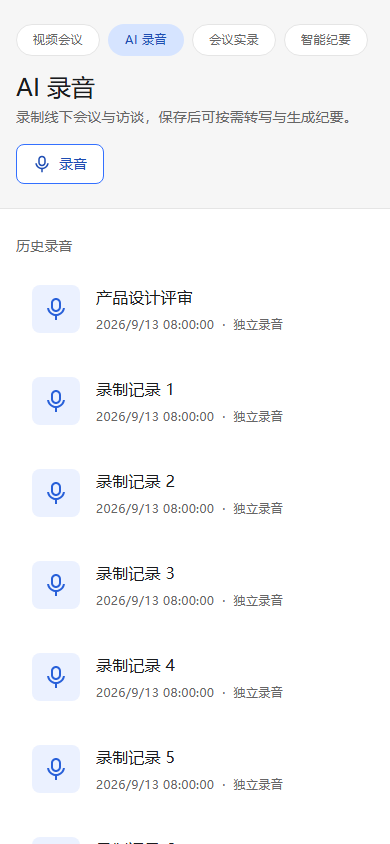
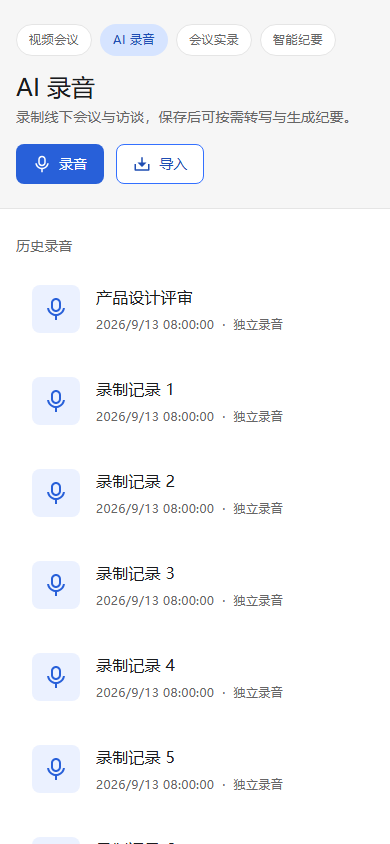
feat(meetings): reorder and restyle the AI recording header actions
按截图改 AI 录音页页头三处:

1. 「录音」在前、「导入」在后 —— 与 App 端 RecordingHomeScreen 同序(录音在左),
   主操作落在靠左那一颗。
2. 「录音」改用 variant="primary":与视频会议页的「快速会议」同一档实心按钮。
   这一页的主操作是开始录音,此前它和「导入」都是线框次按钮,轻重不分。
3. 「导入」的图标 RiUpload2Line → RiDownload2Line:动作是把外部的音视频收进来,
   向上的箭头读起来像要发出去。

走查补三条断言,比「有没有 svg」强一档:录音的实测底色必须是
rgb(40, 96, 217);录音左缘在导入右缘之前且两者同一行;导入图标的 path d 等于
现渲染的 RiDownload2Line、且不等于 RiUpload2Line(新增 iconPath(name) 在真实
模块图里渲染一枚图标取 d)。

顺带修掉走查里两处恒真的断言:AI 录音页的 /recording-uploads/ fixture 一直返回
available: false,而 RecordingUpload 在能力不可用时整块早退 —— 「导入」按钮从来没
被走查渲染过,那句「实录页不该有『上传』按钮」还按 upload.open 这个键名匹配,有没有
按钮都是 0。现在 fixture 给可用的一份、断言改按中文标签匹配。

验证:vitest 160 文件 1033 条、lint / prettier / color / foundation / tsc / build
全绿;check-meeting-pages-ui.mjs 通过,截图已更新。

diff --git a/src/frontend/src/features/meetings/routes/RecordingOverview.tsx b/src/frontend/src/features/meetings/routes/RecordingOverview.tsx
@@ -174,9 +174,19 @@ export function RecordingOverview() {
               <p className={pageLead}>{t('library.recordHint')}</p>
             </div>
             {/* 页头动作与其它栏目页同一档:headerActions 里放 action 尺寸 + 18px 图标的
-                按钮,右对齐。这一页是「录制/导入」两个动作的归属页,会议实录页只查/看。 */}
+                按钮,右对齐。这一页是「录制/导入」两个动作的归属页,会议实录页只查/看。
+                **录音在前、导入在后**(与 App 端 RecordingHomeScreen 同序:录音卡片在左),
+                主操作走 primary —— 与视频会议页的「快速会议」是同一档实心按钮。 */}
             {enabled && (
               <div className={headerActions}>
+                <Button
+                  variant="primary"
+                  size="action"
+                  icon={<RiMicLine size={18} aria-hidden />}
+                  onPress={() => navigate('/meeting/recording/capture')}
+                >
+                  {t('library.startRecording')}
+                </Button>
                 <RecordingUpload
                   key={user.id}
                   viewerId={user.id}
@@ -184,14 +194,6 @@ export function RecordingOverview() {
                     navigate(`/meeting/recording/history/${id}`)
                   }
                 />
-                <Button
-                  variant="secondary"
-                  size="action"
-                  icon={<RiMicLine size={18} aria-hidden />}
-                  onPress={() => navigate('/meeting/recording/capture')}
-                >
-                  {t('library.startRecording')}
-                </Button>
               </div>
             )}
           </header>

diff --git a/src/frontend/src/features/meetings/components/RecordingUpload.tsx b/src/frontend/src/features/meetings/components/RecordingUpload.tsx
@@ -5,7 +5,7 @@ import { useLocation } from 'wouter'
 import { fetchApi } from '@/api/fetchApi'
 import { Button, Dialog, TextArea } from '@/primitives'
 import { StateHint } from '@/components/StateHint'
-import { RiUpload2Line } from '@remixicon/react'
+import { RiDownload2Line } from '@remixicon/react'
 import { css, cx } from '@/styled-system/css'
 import { rowMeta } from './libraryStyles'
 
@@ -123,11 +123,13 @@ export function RecordingUpload({
         }}
       />
       {/* 只有一种形态了:与另外三个栏目页页头同款的 action 按钮。
-          (原先还有一个大入口块的 `tile` 形态,四个页面统一后没有调用点。) */}
+          (原先还有一个大入口块的 `tile` 形态,四个页面统一后没有调用点。)
+          图标是**向下**的箭头:这一页的动作是「把外部的音视频收进来」,向下的箭头
+          才读得通(向上的 RiUpload2Line 看着像要把东西发出去)。 */}
       <Button
         variant="secondary"
         size="action"
-        icon={<RiUpload2Line size={18} aria-hidden />}
+        icon={<RiDownload2Line size={18} aria-hidden />}
         onPress={() => input.current?.click()}
       >
         {t('upload.open')}

diff --git a/src/frontend/src/features/meetings/routes/RecordingOverview.test.tsx b/src/frontend/src/features/meetings/routes/RecordingOverview.test.tsx
@@ -77,9 +77,16 @@ it('loads only completed recordings, limits history to twenty and links to secon
   })
   show(<RecordingOverview />)
   // 「录音」现在是页头的 action 按钮(与会议实录同款工具按钮),不再是页面里的大入口块。
+  const recordButton = screen.getByRole('button', {
+    name: 'library.startRecording',
+  })
+  expect(recordButton).toBeInTheDocument()
+  // 录音在前、导入在后(与 App 端 RecordingHomeScreen 同序:录音卡片在左)。
   expect(
-    screen.getByRole('button', { name: 'library.startRecording' })
-  ).toBeInTheDocument()
+    recordButton.compareDocumentPosition(
+      screen.getByRole('button', { name: 'upload.open' })
+    ) & Node.DOCUMENT_POSITION_FOLLOWING
+  ).toBeTruthy()
   expect(
     await screen.findByRole('link', { name: /Recording 0 / })
   ).toHaveAttribute('href', '/meeting/recording/history/id-0')

diff --git a/CHANGELOG.md b/CHANGELOG.md
@@ -114,6 +114,9 @@ and this project adheres to
   scrollable row cannot clip them
 - ♻(frontend) move the meeting records search into the header action row and
   drop the separate search button
+- ♻(frontend) put the record button first on the AI recording page and make it
+  the primary action
+- ♻(frontend) give the import button a downward arrow
 
 ## [1.16.0] - 2026-05-13
 
